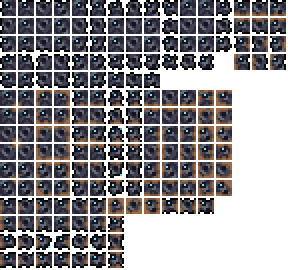
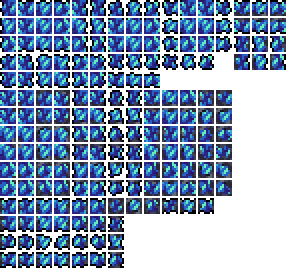
minor edits
haha laugh

diff --git a/Blocks/CrystalCaverns/Tiles/CavernCrystal.cs b/Blocks/CrystalCaverns/Tiles/CavernCrystal.cs
@@ -1,6 +1,8 @@
 using Terraria;
 using Terraria.ModLoader;
 using AerovelenceMod.Items.Placeble.CrystalCaverns;
+using System;
+using Terraria.ID;
 
 namespace AerovelenceMod.Blocks.CrystalCaverns.Tiles
 {
@@ -11,13 +13,18 @@ namespace AerovelenceMod.Blocks.CrystalCaverns.Tiles
 			mineResist = 2.5f;
 			minPick = 59;
             Main.tileSolid[Type] = true;
-            Main.tileMergeDirt[Type] = true;
-            Main.tileBlockLight[Type] = false;
-            Main.tileLighted[Type] = false;
+            Main.tileMerge[Type][ModContent.TileType<CavernStone>()] = true;
+            Main.tileBlockLight[Type] = true;
+            Main.tileLighted[Type] = true;
 			dustType = 59;
 			soundType = 21;
 			drop = ModContent.ItemType<CavernCrystalItem>();
-
+		}
+        public override void ModifyLight(int i, int j, ref float r, ref float g, ref float b)   //light colors
+        {
+            r = 0.0f;
+            g = 0.5f;
+            b = 0.9f;
         }
     }
 }
